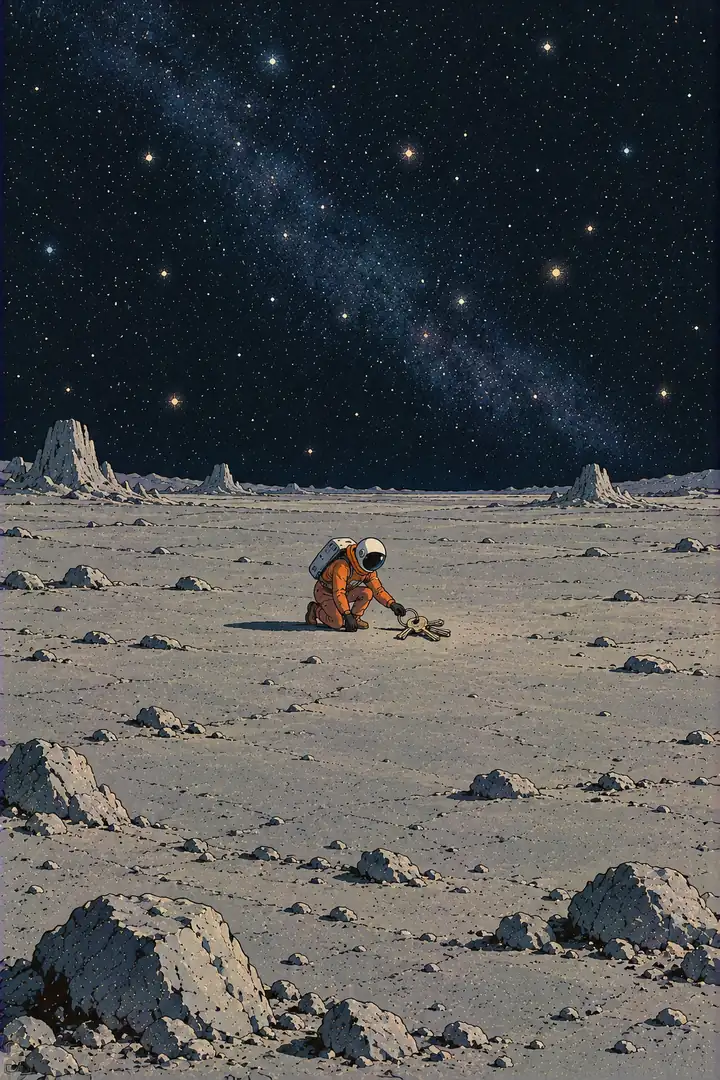
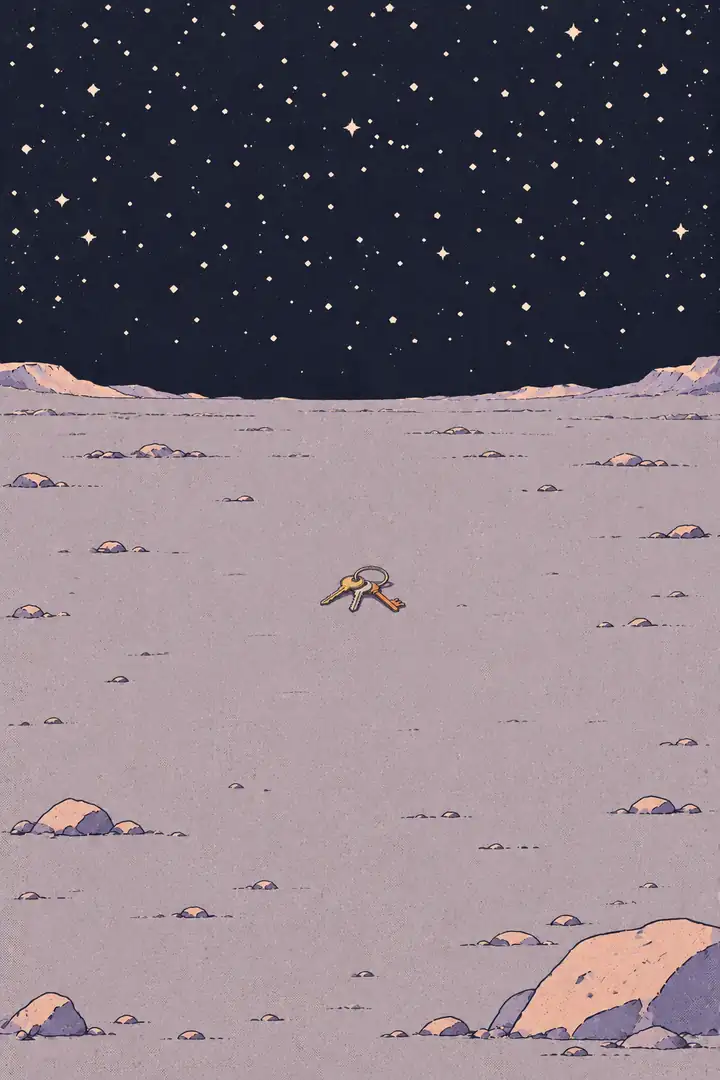
Refaire les images du monde criblé en paysages seuls
Claude-Session: https://claude.ai/code/session_01RhB1pCaJN15SemUTb72qnL

diff --git a/illustrations/PROMPTS.md b/illustrations/PROMPTS.md
@@ -6,7 +6,7 @@ Pour chaque image : colle le prompt maître dans ChatGPT, puis la description ju
 
 Toutes les images sont à refaire en paysages seuls : les anciennes, avec un explorateur dedans, restent en place jusqu’à ce que leur nouvelle version arrive, puis je les remplace une à une. Les nouveaux mondes (bibliothèque, chantier, champignon, cimetière, plat, dessiné) entrent dans la galaxie avec leur première image.
 
-Refaites en paysages seuls : 18 sur 54 (`rocheux`, `rocheux-b`, `rocheux-c`, `gazeux`, `gazeux-b`, `gazeux-c`, `desert`, `desert-b`, `desert-c`, `glace`, `glace-b`, `glace-c`, `volcan`, `volcan-b`, `volcan-c`, `toxique`, `toxique-b`, `toxique-c`).
+Refaites en paysages seuls : 21 sur 54 (`rocheux`, `rocheux-b`, `rocheux-c`, `gazeux`, `gazeux-b`, `gazeux-c`, `desert`, `desert-b`, `desert-c`, `glace`, `glace-b`, `glace-c`, `volcan`, `volcan-b`, `volcan-c`, `toxique`, `toxique-b`, `toxique-c`, `crateres`, `crateres-b`, `crateres-c`).
 
 ## Le prompt maître
 
